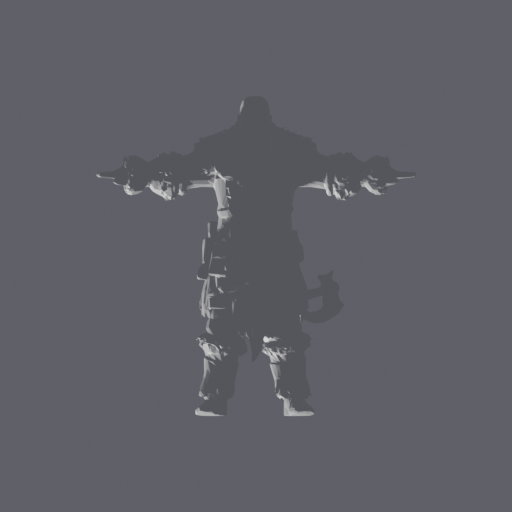
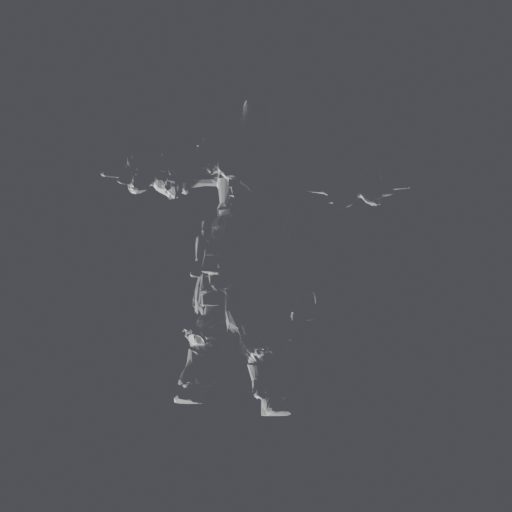
fix(animate-ralph): head-bone artifact — skip head+neck in retarget
UniRig's auto-rename mis-detected the upper spine ("neck" = the arm-branch bone,
"head" off an unnamed bone), so retargeting the mocap head/neck rotations swung
the head into a stretched spike. retarget_mocap.py now skips head+neck (leaves
them at rest; arms are separate bones, still retargeted). Verified: spike gone,
walk intact (validation/retarget/fbx_walk_f*.png). barbarian_walk.fbx refreshed.

diff --git a/pipelines/animate-ralph/scripts/retarget_mocap.py b/pipelines/animate-ralph/scripts/retarget_mocap.py
@@ -48,8 +48,15 @@ def main():
     bpy.context.view_layer.update()
 
     bone_map = json.load(open(MAP, encoding="utf-8"))["bone_map"]
+    # UniRig's auto-rename mis-detects the upper spine on some rigs ("neck" ends up
+    # being the arm-branch bone, "head" hangs off an unnamed bone), so retargeting
+    # head/neck swings the head into a stretched artifact. Leave them at rest — a
+    # neutral head reads fine on a walk. (Arms are separate bones, still retargeted.)
+    SKIP_ROLES = {"head", "neck"}
     pairs = []
     for sname, role in bone_map.items():
+        if role in SKIP_ROLES:
+            continue
         sb = src.pose.bones.get(sname); tb = tgt.pose.bones.get(role)
         if sb and tb:
             tb.rotation_mode = 'QUATERNION'

diff --git a/pipelines/animate-ralph/validation/VALIDATION.md b/pipelines/animate-ralph/validation/VALIDATION.md
@@ -71,7 +71,14 @@ Deliverable: `output/export/barbarian_walk.fbx` (rigged + animated). Imports at 
 set the engine's FBX import **Scale Factor ≈ 100** (same as stock Mixamo FBX).
 
 **Full chain working end-to-end:** mv_ortho → Hunyuan3D → UniRig → rename (19/19) →
-retarget (Mixamo walk) → **animated FBX**. Minor head-bone artifact still wants polish.
+retarget (Mixamo walk) → **animated FBX**.
+
+**Head-bone artifact — FIXED.** Root cause: UniRig's auto-rename mis-detected the upper
+spine ("neck" was actually the arm-branch bone, "head" hung off an unnamed bone), so the
+mocap head/neck rotations swung the head into a stretched spike. Fix: `retarget_mocap.py`
+now **skips `head`+`neck`** (leaves them at rest — a neutral head reads fine on a walk; arms
+are separate bones, still retargeted). Re-rendered: spike gone, walk intact
+(`validation/retarget/fbx_walk_f*.png`). Deliverable `barbarian_walk.fbx` refreshed.
 - **Textures:** UniRig output drops materials, so the rigged mesh renders untextured
   (low contrast) — fine for motion validation; re-apply the source texture for beauty shots.
 - This was a focused single-clip validation, not the full 6-stage / multi-clip pipeline run.
